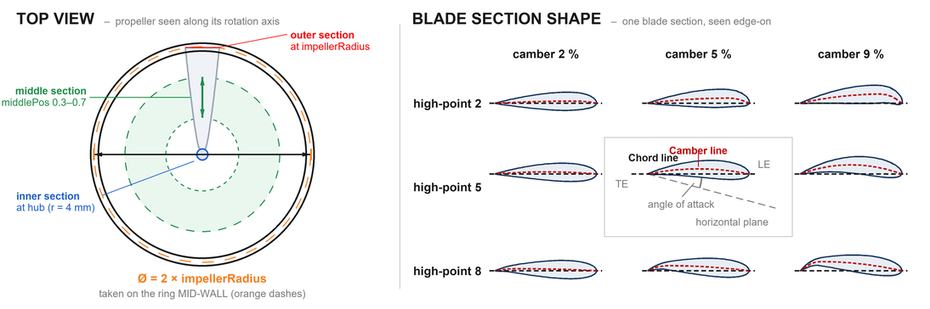
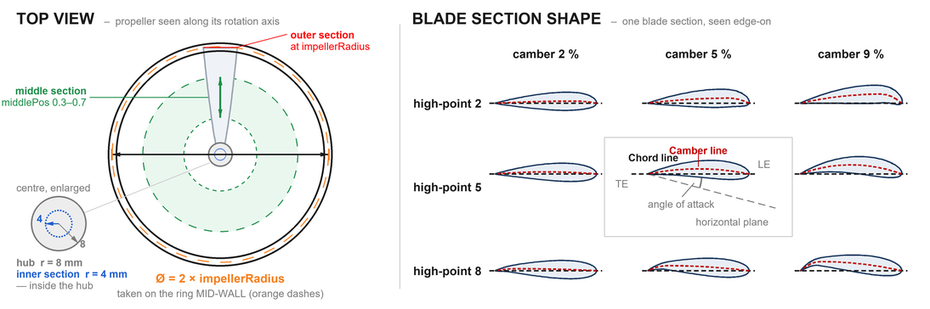
fix(primer): the hub is 8 mm; the inner blade section is 4 mm
The diagram labelled r = 4 mm "at hub (r = 4 mm)" and drew a single 4 mm
disc.  Those are two different radii and collapsing them was wrong:

  hub cylinder          8 mm   web/feg/constants.js CONSTANTS.hub
  inner blade section   4 mm   constants.js innerRadiusFixed
                               (inner_profile.cs translates to (4, 0, 0))

The inner section sits INSIDE the hub, and r = 4 mm -- not the hub -- is
the origin middlePos measures from: profiles.js:19 is
`radius = 4.0 + (impellerRadius - 4.0) * t`.  That arithmetic is UNCHANGED
here and must stay that way; only the wording and the drawing move.

WHAT THE DRAWING DOES NOW.  The hub is drawn at 8 mm in neutral grey and
the inner section as a blue dashed circle inside it.  At the top view's own
scale those two circles are about a millimetre apart on the page, far too
close to label, so panel A gains an enlarged detail of the centre with each
radius on its own arrow.  The two arrows are deliberately NOT collinear
(180 and -45): opposite spokes read as one arrow spanning 4 to 8, which is
the opposite of the point.  The top view shifted right to free the left
column for the detail, the blade now starts at ROOT_MM rather than at the
hub, and the hub fill went neutral because blue is reserved for the inner
section in this drawing's colour key.

HUB_MM is 8.0 by the owner's decision, NOT the 8.28 in constants.js: that
value is commented "interface.cs placeholder" and the hub is a cosmetic
[…]

Changed region(s): [[0.0, 0.1165, 0.3742, 0.9612]]

diff --git a/extra_utilities/dc_params_primer/make_dc_params_primer.py b/extra_utilities/dc_params_primer/make_dc_params_primer.py
@@ -103,7 +103,8 @@ FOILL = "1F3A5F"
 FOILF = "E8EEF5"
 BLADE = "EFF2F6"
 BLADL = "9AA4B0"
-HUBF  = "DCE6F5"
+HUBF  = "EDEDED"      # hub fill — NEUTRAL: blue is reserved for the inner
+                      # section, and the hub is not the inner section
 WHITE = "FFFFFF"
 
 # dash patterns: name -> (on, off) in inches, plus the PowerPoint preset
@@ -165,13 +166,35 @@ SLIDE_W, SLIDE_H = 11.4, 3.80
 
 # panel A
 A_X0 = 0.20
-CX, CY = 2.48, 1.90
+CX, CY = 2.70, 1.90            # shifted right: the detail needs the left column
 R_MID = 1.33                      # impellerRadius, at the ring mid-wall
 K = R_MID / 70.0                  # inches per mm
 RING_T = 5.0                      # impellerThickness, mm
-HUB_MM = 4.0
-B1_MM, B2_MM = 4 + 0.3 * 66, 4 + 0.7 * 66
+# TWO DIFFERENT RADII, and conflating them was a real defect in the first
+# version of this drawing:
+#   HUB_MM   the hub cylinder itself (web/feg/constants.js CONSTANTS.hub).
+#   ROOT_MM  the radial station of the INNER BLADE SECTION -- 4.0 mm, from
+#            inner_profile.cs (constants.js innerRadiusFixed).  It sits
+#            INSIDE the hub, and it is the origin middlePos measures from:
+#            profiles.js:19 is `radius = 4.0 + (impellerRadius - 4.0) * t`.
+# Changing ROOT_MM here would put the drawing out of step with the geometry.
+#
+# HUB_MM is 8.0 by the owner's decision (2026-08-22), NOT the 8.28 in
+# constants.js: that value is commented "interface.cs placeholder" and the
+# hub is a cosmetic cylinder that no parameter depends on, so the round
+# number is the one worth teaching.  ROOT_MM is the opposite case -- it IS
+# load-bearing, so it tracks the code exactly and smoke_test_dc_primer
+# asserts the two stay equal.
+HUB_MM = 8.0
+ROOT_MM = 4.0
+B1_MM, B2_MM = ROOT_MM + 0.3 * 66, ROOT_MM + 0.7 * 66
 DIVIDER = 4.90
+
+# Enlarged detail of the centre, bottom-left of panel A.  At the top view's
+# own scale (K = 0.019 in/mm) the two radii are 0.15 and 0.08 inches, far too
+# close to label; the detail redraws them ~2.2x larger with both dimensioned.
+DET_CX, DET_CY = 0.72, 2.75
+DET_K = 0.34 / HUB_MM             # inches per mm inside the detail
 
 # panel B
 B_X0 = 5.05
@@ -214,7 +237,7 @@ def build():
     up, dn = [], []
     for i in range(41):
         t = i / 40.0
-        r = HUB_MM + (70 - HUB_MM) * t
+        r = ROOT_MM + (70 - ROOT_MM) * t
         c = 4.0 + 18.0 * (t ** 0.75)
         ha = math.degrees((c / 2.0) / r)
         up.append(polar(r, 90 + ha))
@@ -225,7 +248,9 @@ def build():
     s.circle((CX, CY), r_out, INK, 1.5)
     s.circle((CX, CY), r_in, INK, 1.5)
     s.circle((CX, CY), R_MID, ORANGE, 1.0, "dash")
-    s.circle((CX, CY), HUB_MM * K, BLUE, 1.25, fill=HUBF)
+    # hub (grey, solid) and the inner-section station inside it (blue, dashed)
+    s.circle((CX, CY), HUB_MM * K, GREY, 1.25, fill=HUBF)
+    s.circle((CX, CY), ROOT_MM * K, BLUE, 1.0, "short")
 
     s.line((CX - R_MID, CY), (CX + R_MID, CY), INK, 1.25,
            arrow_start=True, arrow_end=True)
@@ -251,9 +276,35 @@ def build():
     s.text(1.06, ymid - 0.01, u"middlePos 0.3–0.7", T_LAB, color=GREEN,
            anchor="r")
 
-    s.line((1.26, CY + 0.50), (CX - 0.10, CY + 0.08), BLUE, 0.75)
-    s.text(A_X0, CY + 0.44, "inner section", T_LAB, True, BLUE)
-    s.text(A_X0, CY + 0.58, "at hub (r = 4 mm)", T_LAB, color=BLUE)
+    # ---- enlarged detail: the hub is NOT the inner section ---------------
+    # Both circles are ~1 mm across in the view above, far too close to
+    # label there; drawn again here with each radius dimensioned, because
+    # the two being DIFFERENT is the single fact this corner exists for.
+    # A thin leader ties the detail back to the centre it magnifies.
+    s.line((1.02, 2.62), (CX - 0.13, CY + 0.10), FAINT, 0.75)
+    s.text(A_X0, DET_CY - 0.51, "centre, enlarged", T_ANN, color=GREY)
+    s.circle((DET_CX, DET_CY), HUB_MM * DET_K, GREY, 1.25, fill=HUBF)
+    s.circle((DET_CX, DET_CY), ROOT_MM * DET_K, BLUE, 1.25, "short")
+
+    # Each radius gets its OWN arrow from the centre, at a different angle.
+    # Both on one horizontal line read as a single 4-to-8 span instead of two
+    # radii, which is the opposite of the point.
+    def _spoke(r_mm, deg, color, label, dx, dy, anchor="l"):
+        a = math.radians(deg)
+        ex = DET_CX + r_mm * DET_K * math.cos(a)
+        ey = DET_CY - r_mm * DET_K * math.sin(a)
+        s.line((DET_CX, DET_CY), (ex, ey), color, 1.0, arrow_end=True)
+        s.text(ex + dx, ey + dy, label, T_LAB, True, color, anchor=anchor)
+
+    # 180 and -45: NOT opposite angles.  Two collinear spokes look like one
+    # arrow spanning 4 to 8, which is the opposite of what this shows.
+    _spoke(ROOT_MM, 180, BLUE, "4", -0.03, -0.13, anchor="r")
+    _spoke(HUB_MM, -45, GREY, "8", 0.02, -0.06)
+
+    # Kept SHORT: past x ~1.65 these rows run into the diameter caption.
+    s.text(A_X0, 3.16, "hub  r = 8 mm", T_LAB, True, color=GREY)
+    s.text(A_X0, 3.30, "inner section  r = 4 mm", T_LAB, True, color=BLUE)
+    s.text(A_X0, 3.44, "— inside the hub", T_ANN, color=GREY)
 
     s.text(CX, 3.34, u"Ø = 2 × impellerRadius", T_HEAD, True,
            color=ORANGE, anchor="c")

diff --git a/extra_utilities/smoke_test_dc_primer.py b/extra_utilities/smoke_test_dc_primer.py
@@ -163,6 +163,44 @@ if m:
     check("text block quotes it verbatim (whitespace-normalised)",
           canonical in body, canonical)
 
+# --- 2b. the hub is NOT the inner blade section -----------------------------
+print("case 2b - hub 8 mm vs inner section 4 mm, kept distinct")
+# The first version of this drawing labelled r = 4 mm "the hub".  They are
+# two different things: the hub cylinder is ~8 mm (constants.js CONSTANTS.hub)
+# and 4 mm is the inner blade section's station (innerRadiusFixed), which
+# sits inside it and is the origin middlePos measures from.
+body = norm(dc_primer.TEXT_PATH.read_text(encoding="utf-8"))
+check("text names the hub as 8 mm", "radius 8 mm" in body, body[:160])
+check("text puts the inner section at 4 mm",
+      # body is whitespace-normalised, so the file's column alignment
+      # ("inner section  = ...") collapses to one space here
+      "inner section = blade root, at r = 4 mm" in body)
+check("text says the inner section is NOT the hub radius",
+      "NOT the hub radius" in body)
+check("text no longer calls r = 4 mm 'the hub'",
+      "0 = hub" not in body and "fixed at the hub" not in body, body[:200])
+check("middlePos formula still measured from 4",
+      "radius = 4 + middlePos x (impellerRadius - 4) mm" in body)
+
+# The generator's ROOT_MM is load-bearing: it must equal the geometry's
+# innerRadiusFixed, or the drawing teaches a span origin the code does not use.
+gen = (ROOT / "extra_utilities" / "dc_params_primer"
+       / "make_dc_params_primer.py").read_text(encoding="utf-8")
+consts = (ROOT / "web" / "feg" / "constants.js").read_text(encoding="utf-8")
+m_root = re.search(r"^ROOT_MM = ([\d.]+)", gen, re.M)
+m_hub = re.search(r"^HUB_MM = ([\d.]+)", gen, re.M)
+m_code = re.search(r"innerRadiusFixed:\s*([\d.]+)", consts)
+check("generator defines ROOT_MM and HUB_MM",
+      m_root is not None and m_hub is not None)
+if m_root and m_code:
+    check("ROOT_MM (%s) == constants.js innerRadiusFixed (%s)"
+          % (m_root.group(1), m_code.group(1)),
+          float(m_root.group(1)) == float(m_code.group(1)))
+if m_root and m_hub:
+    check("HUB_MM (%s) is larger than ROOT_MM (%s)"
+          % (m_hub.group(1), m_root.group(1)),
+          float(m_hub.group(1)) > float(m_root.group(1)))
+
 # --- 3 + 4. message shape and gating ----------------------------------------
 print("case 3 - message shape per provider")
 st.DC_PARAMS_PRIMER_ENABLED = True

diff --git a/extra_utilities/dc_params_primer/README.md b/extra_utilities/dc_params_primer/README.md
@@ -31,6 +31,34 @@ im.resize((930, 309), Image.LANCZOS).save(
     optimize=True)
 ```
 
+## The hub is NOT the inner blade section
+
+Corrected 2026-08-22, after the first version labelled `r = 4 mm` "the hub".
+Two different radii:
+
+| | radius | where it comes from |
+|---|---|---|
+| hub cylinder | **8 mm** | `web/feg/constants.js` `CONSTANTS.hub` |
+| inner blade section | **4 mm** | `constants.js` `innerRadiusFixed` (`inner_profile.cs`) |
+
+The inner section sits **inside** the hub, and `r = 4 mm` — not the hub — is
+the origin `middlePos` measures from (`profiles.js:19`:
+`radius = 4.0 + (impellerRadius - 4.0) * t`).  The drawing shows the hub in
+neutral grey and the inner section as a blue dashed circle inside it, with an
+enlarged corner dimensioning both, because at the top view's own scale the two
+are about a millimetre apart on the page.
+
+`ROOT_MM` in the generator is **load-bearing** and must equal
+`innerRadiusFixed`; `smoke_test_dc_primer.py` asserts it.  `HUB_MM` is 8.0 by
+the owner's decision, deliberately *not* the 8.28 in `constants.js`: that value
+is commented "interface.cs placeholder" and the hub is a cosmetic cylinder no
+parameter depends on, so the round number is the one worth teaching.  The FEG
+preview still draws 8.28.
+
+Note the prompt fragments (`parameters.md`, `structure.md`,
+`modelling_notes.md`) carried the same conflation; correcting those is owned
+elsewhere, so this folder fixes only the diagram and its paired text block.
+
 Two rules the pipeline depends on:
 
 1. The image is deliberately **exempt from `compress_for_model`** — the
